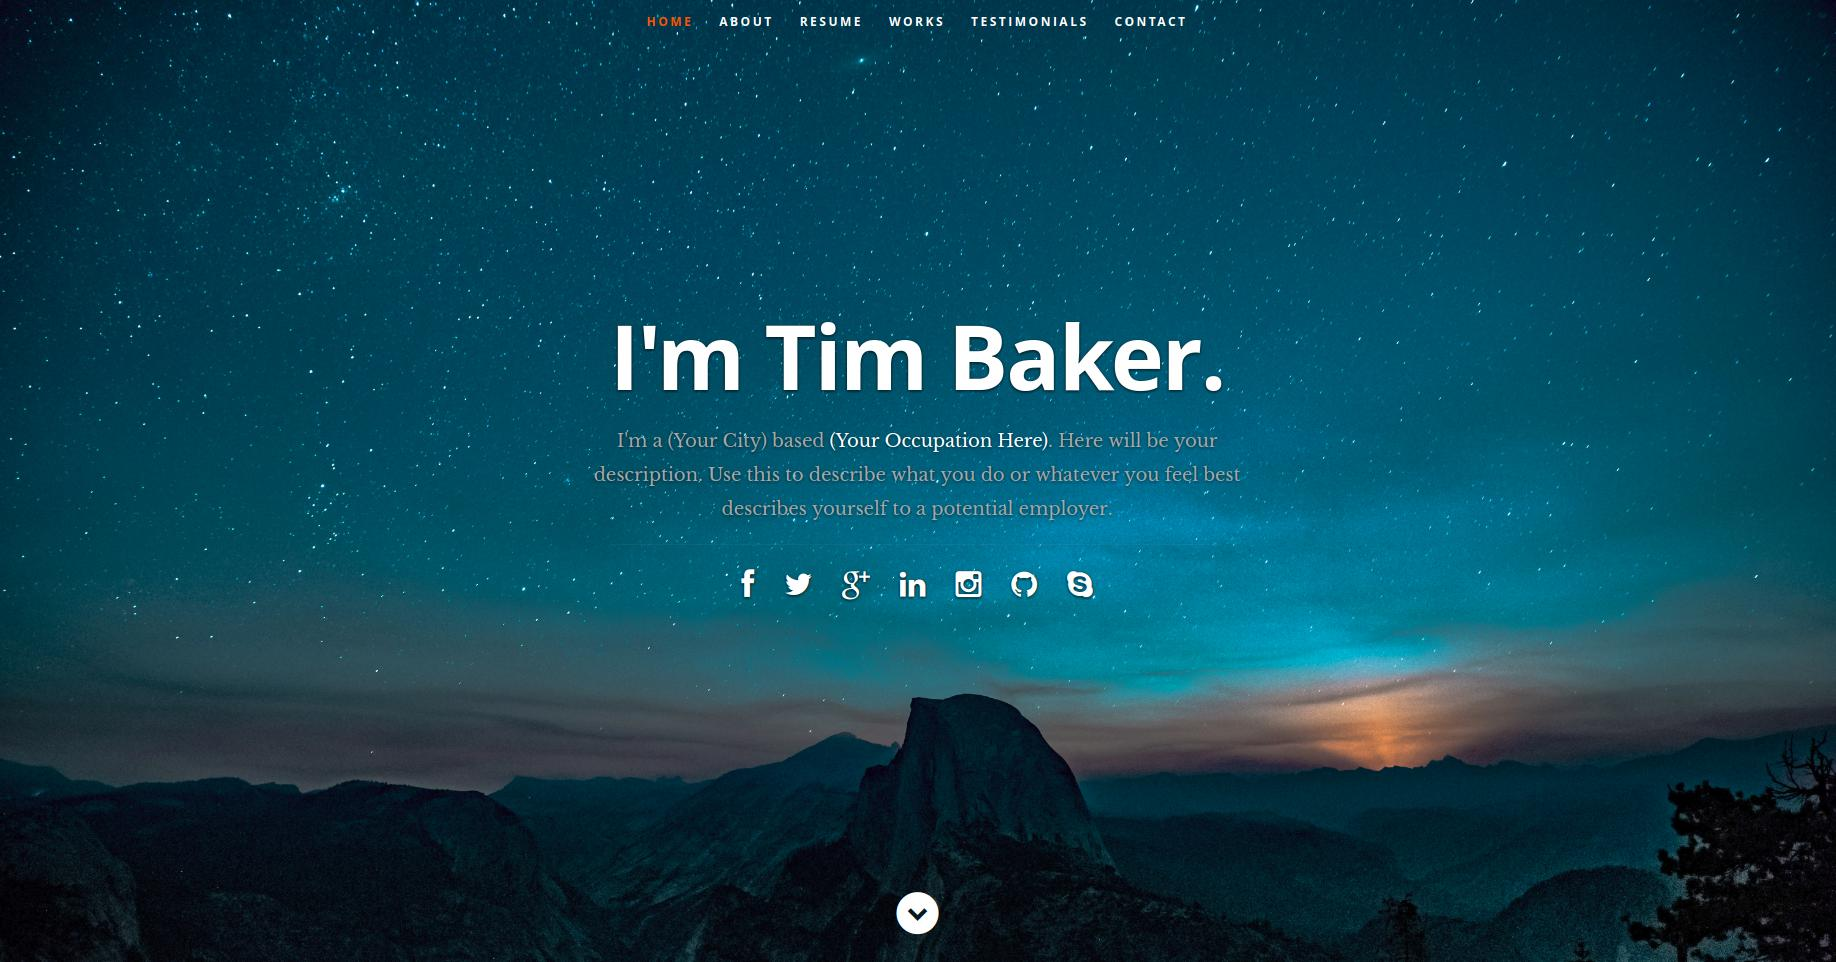
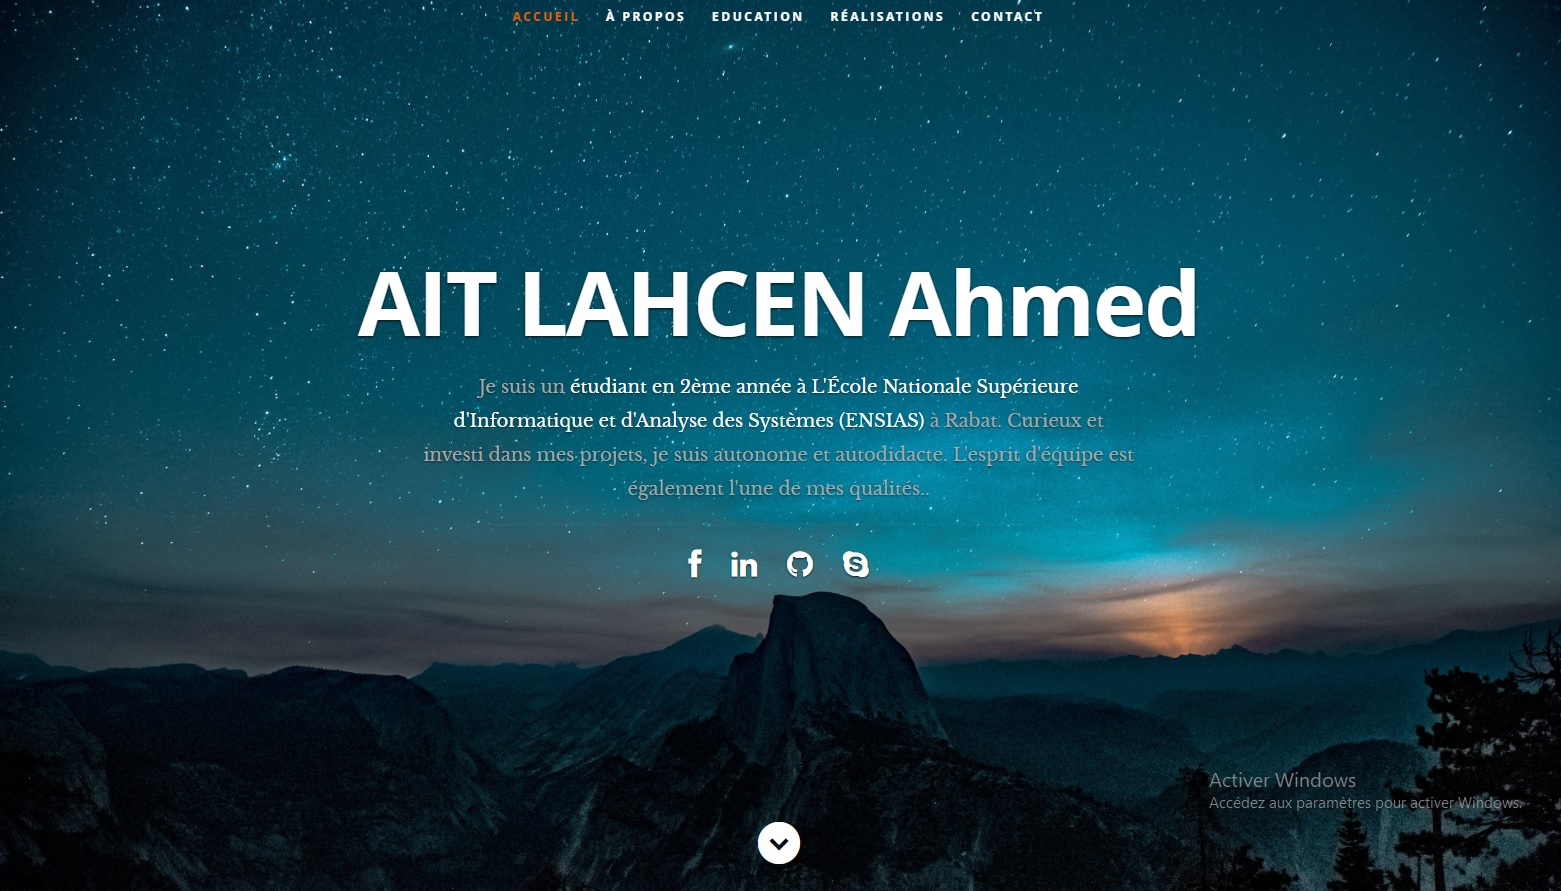
resume screenshot update

diff --git a/src/Components/Contact.js b/src/Components/Contact.js
@@ -40,7 +40,7 @@ class Contact extends Component {
 					<fieldset>
 
                   <div>
-						   <label htmlFor="contactName">Name <span className="required">*</span></label>
+						   <label htmlFor="contactName">Nom Complet<span className="required">*</span></label>
 						   <input type="text" defaultValue="" size="35" id="contactName" name="contactName" onChange={this.handleChange}/>
                   </div>
 
@@ -50,7 +50,7 @@ class Contact extends Component {
                   </div>
 
                   <div>
-						   <label htmlFor="contactSubject">Subject</label>
+						   <label htmlFor="contactSubject">Sujet</label>
 						   <input type="text" defaultValue="" size="35" id="contactSubject" name="contactSubject" onChange={this.handleChange}/>
                   </div>
 
@@ -60,7 +60,7 @@ class Contact extends Component {
                   </div>
 
                   <div>
-                     <button className="submit">Submit</button>
+                     <button className="submit">Envoyer</button>
                      <span id="image-loader">
                         <img alt="" src="images/loader.gif" />
                      </span>
@@ -68,9 +68,9 @@ class Contact extends Component {
 					</fieldset>
 				   </form>
 
-           <div id="message-warning"> Error boy</div>
+           <div id="message-warning"> Error </div>
 				   <div id="message-success">
-                  <i className="fa fa-check"></i>Your message was sent, thank you!<br />
+                  <i className="fa fa-check"></i>Votre message est envyée, Merci!<br />
 				   </div>
            </div>
 
@@ -78,7 +78,7 @@ class Contact extends Component {
             <aside className="four columns footer-widgets">
                <div className="widget widget_contact">
 
-					   <h4>Address and Phone</h4>
+					   <h4>Coordonnées</h4>
 					   <p className="address">
 						   {name}<br />
 						   {street} <br />
@@ -86,28 +86,6 @@ class Contact extends Component {
 						   <span>{phone}</span>
 					   </p>
 				   </div>
-
-               <div className="widget widget_tweets">
-                  <h4 className="widget-title">Latest Tweets</h4>
-                  <ul id="twitter">
-                     <li>
-                        <span>
-                        This is Photoshop's version  of Lorem Ipsum. Proin gravida nibh vel velit auctor aliquet.
-                        Aenean sollicitudin, lorem quis bibendum auctor, nisi elit consequat ipsum
-                        <a >http://t.co/CGIrdxIlI3</a>
-                        </span>
-                        <b><a>2 Days Ago</a></b>
-                     </li>
-                     <li>
-                        <span>
-                        Sed ut perspiciatis unde omnis iste natus error sit voluptatem accusantium doloremque laudantium, totam rem aperiam,
-                        eaque ipsa quae ab illo inventore veritatis et quasi
-                        <a>http://t.co/CGIrdxIlI3</a>
-                        </span>
-                        <b><a>3 Days Ago</a></b>
-                     </li>
-                  </ul>
-		         </div>
             </aside>
       </div>
    </section>

diff --git a/src/Components/About.js b/src/Components/About.js
@@ -29,7 +29,7 @@ class About extends Component {
             <p>{bio}</p>
             <div className="row">
                <div className="columns contact-details">
-                  <h2>Contact Details</h2>
+                  <h2>Coordonnées</h2>
                   <p className="address">
 						   <span>{name}</span><br />
 						   <span>{street}<br />
@@ -41,8 +41,12 @@ class About extends Component {
                </div>
                <div className="columns download">
                   <p>
-                     <a href={resumeDownload} className="button"><i className="fa fa-download"></i>Mon Curriculum Vitae</a>
-                     <a href={LettreM} className="button"><i className="fa fa-download"></i>Ma Lettre de Motivation</a>
+                     <a href={resumeDownload} className="button"><i className="fa fa-download"></i>Visualiser Mon CV</a>
+                     <a href={LettreM} className="button"><i className="fa fa-download"></i>La Lettre de Motivation</a>
+                     <a href={resumeDownload} className="button"><i className="fa fa-download"></i>Le Projet Professionnel</a>
+                     <a href={LettreM} className="button"><i className="fa fa-download"></i>La Fiche Métier</a>
+                     <a href={resumeDownload} className="button"><i className="fa fa-download"></i>La Carte D'identité des entreprises</a>
+                     <a href={LettreM} className="button"><i className="fa fa-download"></i>Le Bilan Personnel</a>
                   </p>
                </div>
             </div>

diff --git a/src/App.js b/src/App.js
@@ -7,7 +7,6 @@ import Footer from './Components/Footer';
 import About from './Components/About';
 import Resume from './Components/Resume';
 import Contact from './Components/Contact';
-import Testimonials from './Components/Testimonials';
 import Portfolio from './Components/Portfolio';
 
 class App extends Component {
@@ -50,7 +49,6 @@ class App extends Component {
         <About data={this.state.resumeData.main}/>
         <Resume data={this.state.resumeData.resume}/>
         <Portfolio data={this.state.resumeData.portfolio}/>
-        <Testimonials data={this.state.resumeData.testimonials}/>
         <Contact data={this.state.resumeData.main}/>
         <Footer data={this.state.resumeData.main}/>
       </div>

diff --git a/public/css/layout.css b/public/css/layout.css
@@ -417,7 +417,7 @@ ul#nav li.current a { color: #F06000; }
 /* ------------------------------------------------------------------ */
 
 #portfolio {
-   background: #ebeeee;
+   background: #1F1F1F url(../images/testimonials-bg.jpg) no-repeat center center;
    padding-top: 90px;
    padding-bottom: 60px;
 }
@@ -427,7 +427,7 @@ ul#nav li.current a { color: #F06000; }
    letter-spacing: 1px;
    text-align: center;
    margin-bottom: 48px;
-   color: #95A3A3;
+   color: #FFFFFF;
 }
 
 /* Portfolio Content */

diff --git a/src/Components/Header.js b/src/Components/Header.js
@@ -26,7 +26,6 @@ class Header extends Component {
             <li><a className="smoothscroll" href="#about">À Propos</a></li>
 	         <li><a className="smoothscroll" href="#resume">Education</a></li>
             <li><a className="smoothscroll" href="#portfolio">Réalisations</a></li>
-            <li><a className="smoothscroll" href="#testimonials">Distinctions</a></li>
             <li><a className="smoothscroll" href="#contact">Contact</a></li>
          </ul>
 
